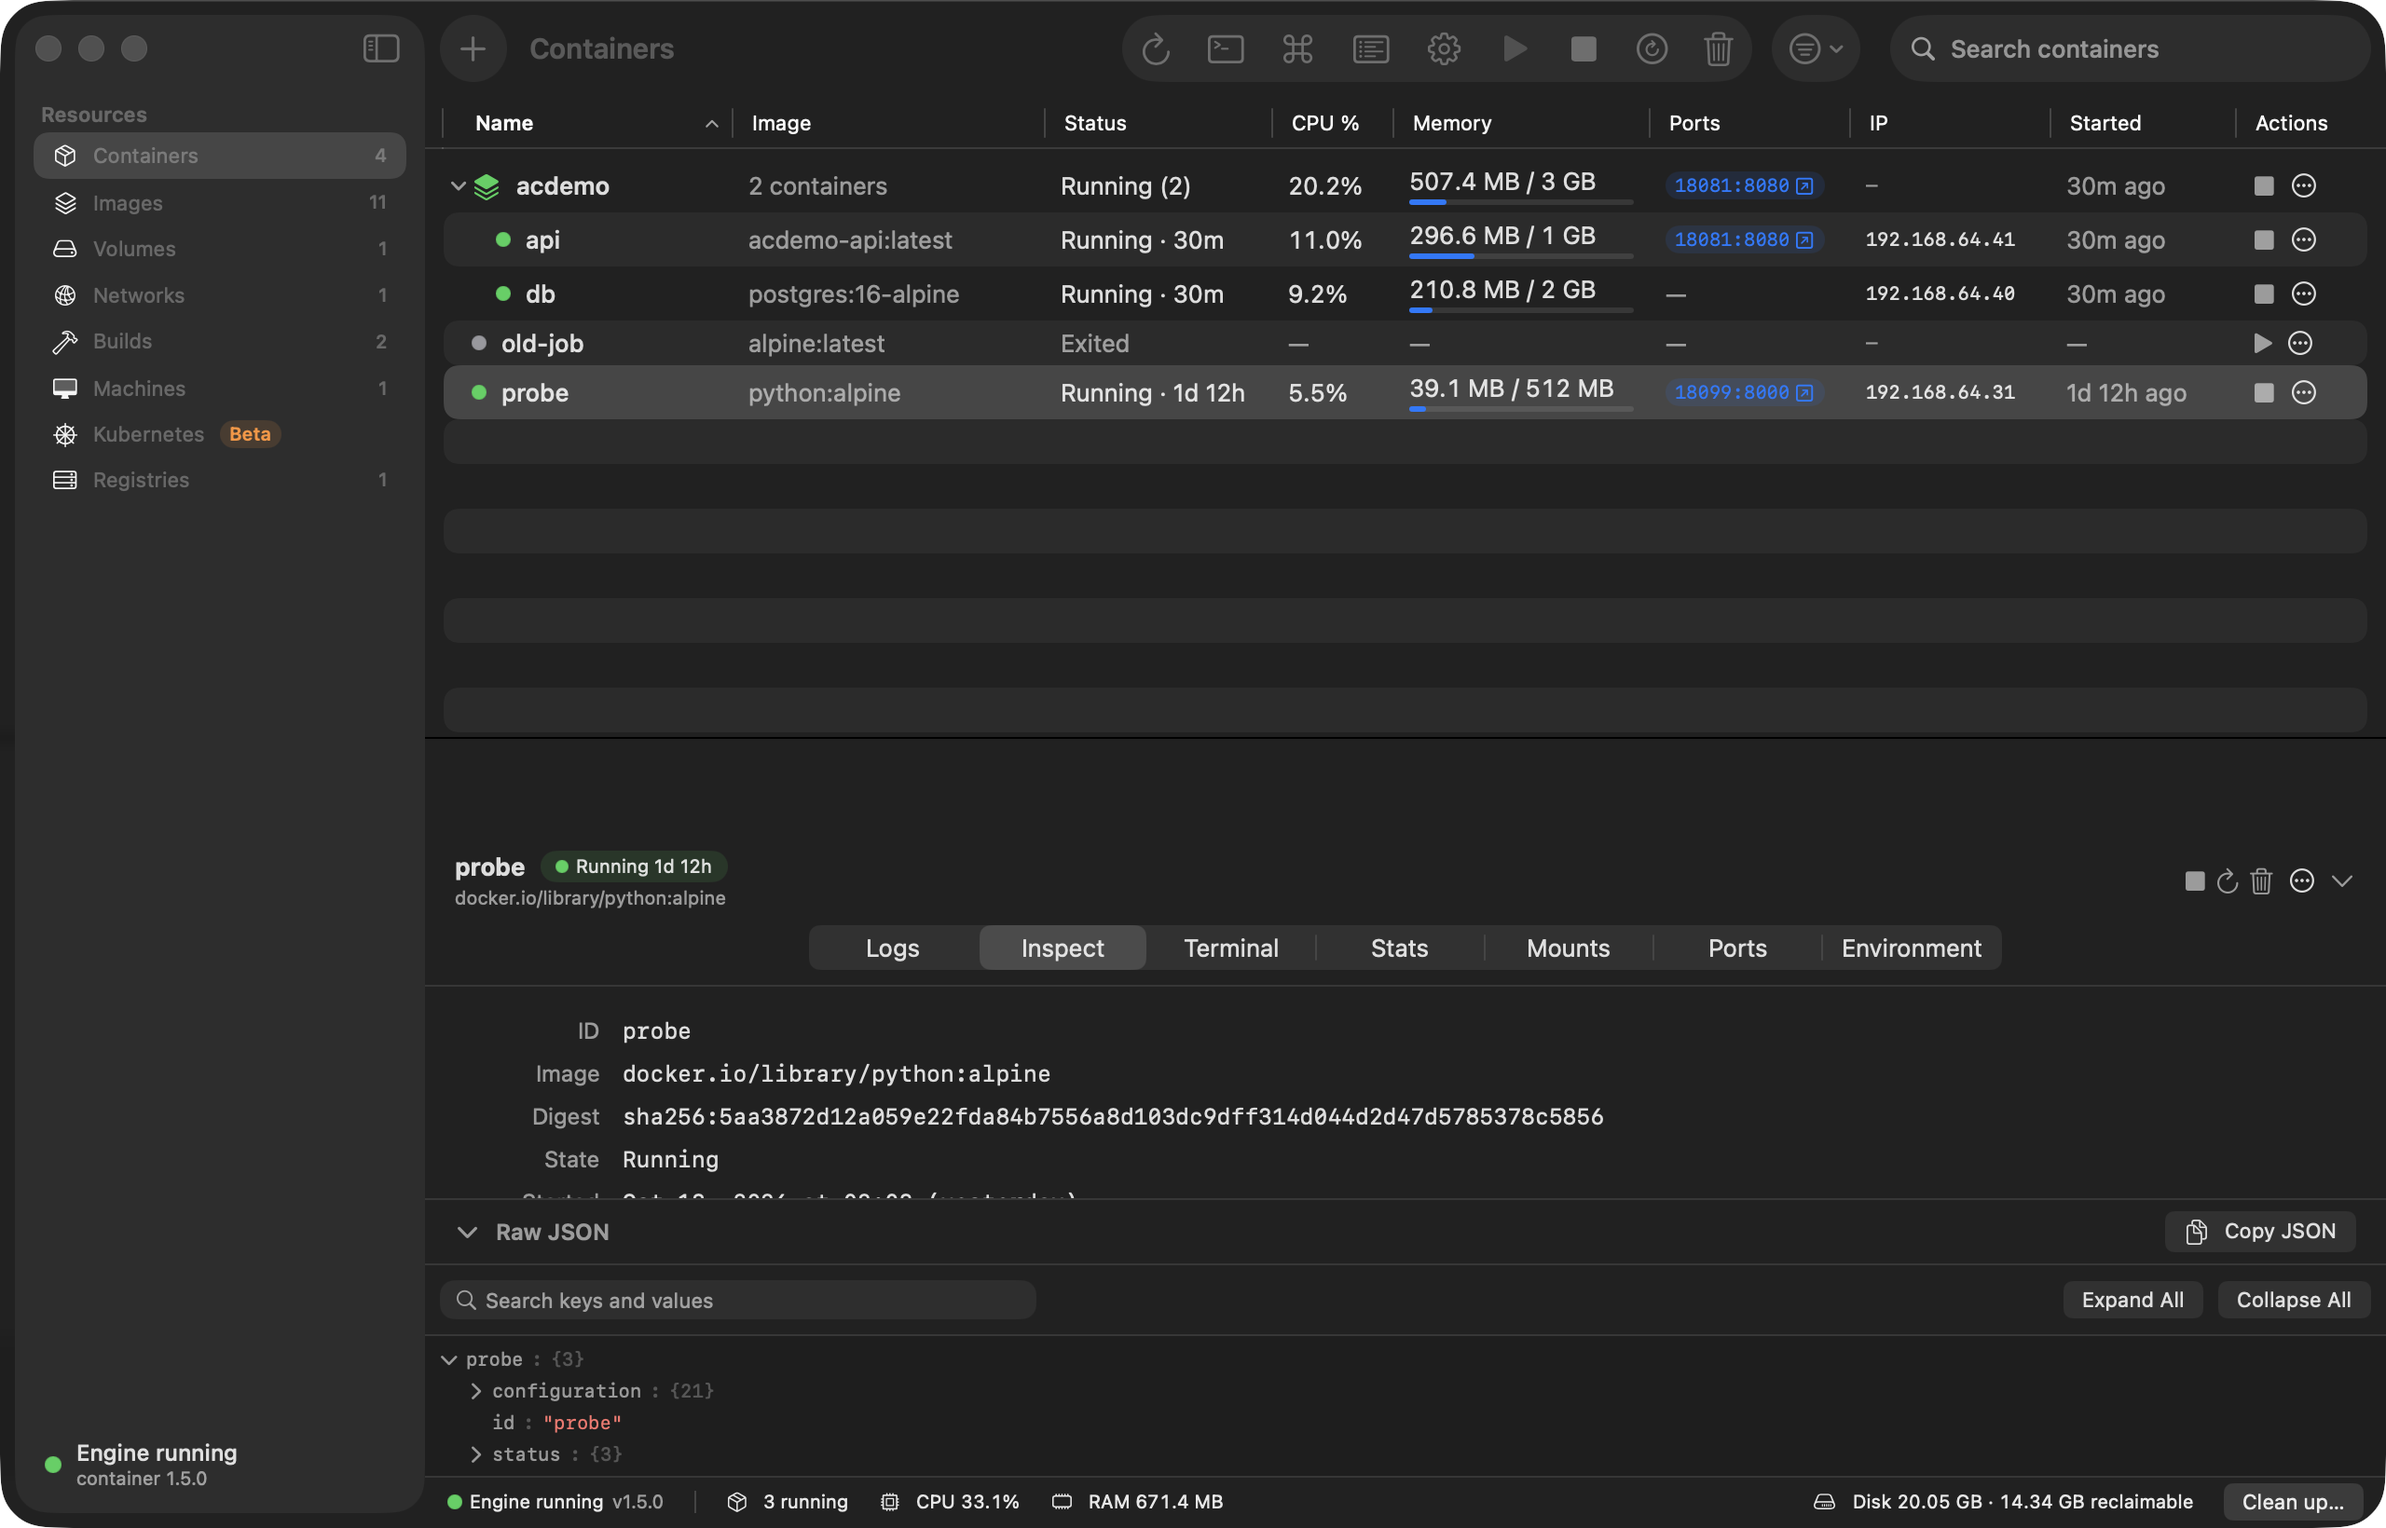
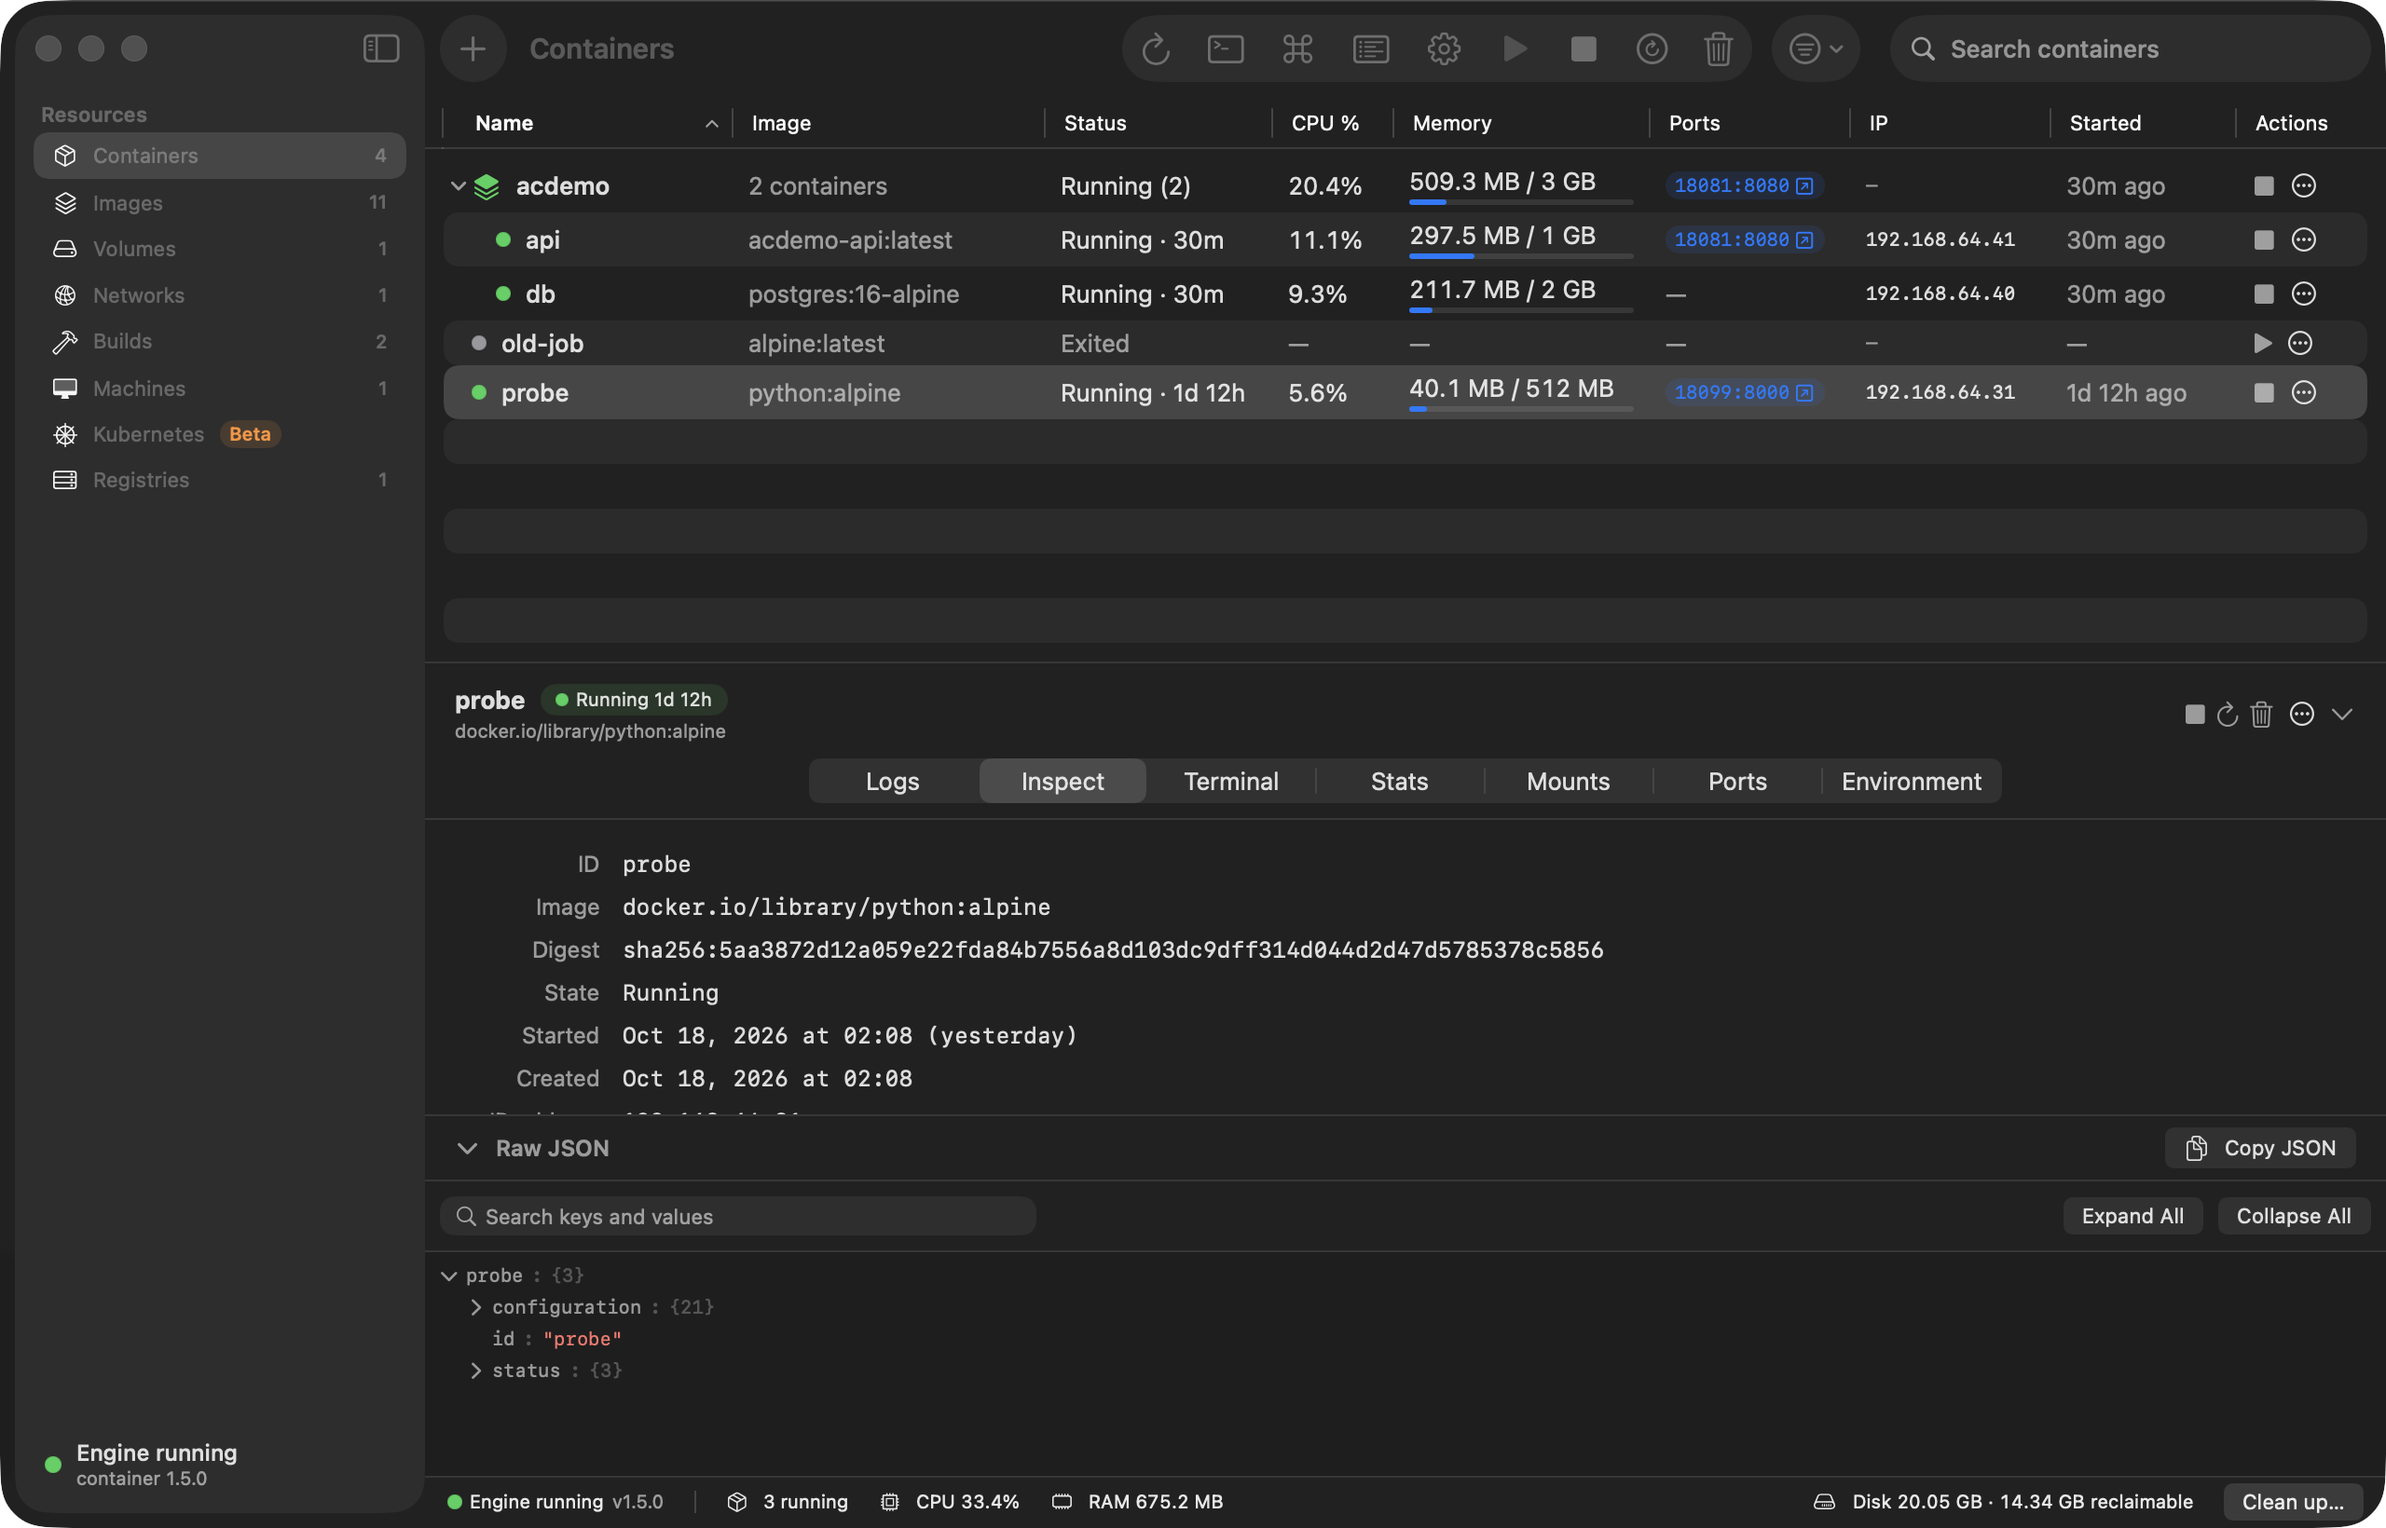
containers: wire model.runRequests (merge main), custom split instead of VSplitView, stats formatting fixes, screenshots

diff --git a/Sources/ContainerDesktop/Features/Containers/ContainersListView.swift b/Sources/ContainerDesktop/Features/Containers/ContainersListView.swift
@@ -1,4 +1,5 @@
 import SwiftUI
+import AppKit
 import ContainerKit
 import ContainerKitMock
 import AppCore
@@ -7,11 +8,12 @@ import DesignSystem
 /// Containers section: table (top) + tabbed detail pane (bottom, resizable) for a single selection.
 ///
 /// Deep links: `navigation.open(.containers, select: "<id>")` selects a container;
-/// `select: "run:<image reference>"` opens the Run sheet prefilled with that image.
+/// `select: "run:<image reference>"` or `model.runRequests.request(_:)` opens the Run sheet prefilled.
 struct ContainersListView: View {
     @Environment(AppModel.self) private var model
     @State private var ui = ContainersUIState()
     @AppStorage("containers.groupByProject") private var groupByProject = true
+    @AppStorage("containers.listHeight") private var listHeight: Double = 300
 
     private var store: ContainersStore { model.containers }
     private var actions: ContainerActions { ContainerActions(model: model, ui: ui) }
@@ -22,12 +24,19 @@ struct ContainersListView: View {
     }
 
     var body: some View {
-        VSplitView {
-            listArea
-                .frame(minHeight: 160, idealHeight: 300, maxHeight: .infinity)
-            if let c = detailContainer {
-                ContainerDetailView(container: c, ui: ui, actions: actions)
-                    .frame(minHeight: 260, idealHeight: 420, maxHeight: .infinity)
+        // A VStack + drag handle instead of `VSplitView`: VSplitView mis-applies the toolbar safe area to its
+        // first pane and leaves a dead band above the second one.
+        GeometryReader { geo in
+            VStack(spacing: 0) {
+                if let c = detailContainer {
+                    let height = min(max(160, listHeight), max(160, geo.size.height - 260))
+                    listArea.frame(height: height)
+                    SplitHandle(height: $listHeight, range: 160...max(160, geo.size.height - 260))
+                    ContainerDetailView(container: c, ui: ui, actions: actions)
+                        .frame(maxHeight: .infinity)
+                } else {
+                    listArea.frame(maxHeight: .infinity)
+                }
             }
         }
         .toolbar { ContainersToolbar(model: model, ui: ui, actions: actions, groupByProject: $groupByProject) }
@@ -40,6 +49,9 @@ struct ContainersListView: View {
             ui.showDetail = true
             return raw
         }
+        // "Run…" from Images (and other sections) hands off through `model.runRequests`.
+        .onAppear(perform: consumeRunRequest)
+        .onChange(of: model.runRequests.pending) { consumeRunRequest() }
         .sheet(item: $ui.runRequest) { request in
             RunContainerSheet(prefill: request.spec) { newID in
                 ui.open(newID, tab: .logs)
@@ -86,6 +98,11 @@ struct ContainersListView: View {
         }
     }
 
+    private func consumeRunRequest() {
+        guard model.runRequests.pending != nil, let spec = model.runRequests.consume() else { return }
+        ui.runRequest = RunSheetRequest(spec: spec)
+    }
+
     private var deleteTitle: String {
         ui.pendingDelete.count == 1 ? "Delete container “\(ui.pendingDelete[0])”?" : "Delete \(ui.pendingDelete.count) containers?"
     }
@@ -94,6 +111,32 @@ struct ContainersListView: View {
         let names = ui.pendingDelete.prefix(12).joined(separator: ", ")
         let more = ui.pendingDelete.count > 12 ? " and \(ui.pendingDelete.count - 12) more" : ""
         return "Deletes \(names)\(more). Running containers are stopped first. Named volumes are kept."
+    }
+}
+
+/// Horizontal divider that resizes the pane above it by dragging.
+private struct SplitHandle: View {
+    @Binding var height: Double
+    let range: ClosedRange<Double>
+    @State private var start: Double?
+
+    var body: some View {
+        Divider()
+            .frame(maxWidth: .infinity)
+            .padding(.vertical, 3)
+            .contentShape(Rectangle())
+            .onHover { inside in if inside { NSCursor.resizeUpDown.push() } else { NSCursor.pop() } }
+            .gesture(DragGesture(minimumDistance: 1)
+                .onChanged { value in
+                    let base = start ?? height
+                    start = base
+                    height = min(max(base + value.translation.height, range.lowerBound), range.upperBound)
+                }
+                .onEnded { _ in start = nil })
+            .accessibilityLabel("Resize list and details")
+            .accessibilityAdjustableAction { direction in
+                height = min(max(height + (direction == .increment ? 40 : -40), range.lowerBound), range.upperBound)
+            }
     }
 }
 

diff --git a/Sources/ContainerDesktop/Features/Containers/ContainerStatsTab.swift b/Sources/ContainerDesktop/Features/Containers/ContainerStatsTab.swift
@@ -32,7 +32,7 @@ struct ContainerStatsTab: View {
                     tiles
                     LazyVGrid(columns: [GridItem(.adaptive(minimum: 320), spacing: Spacing.l)], spacing: Spacing.l) {
                         chartCard("CPU", subtitle: "% of one core") { cpuChart }
-                        chartCard("Memory", subtitle: "used vs limit") { memoryChart }
+                        chartCard("Memory", subtitle: "used of \(ByteCount.format(points.last?.memoryLimitBytes ?? container.configuration.resources.memoryInBytes)) limit") { memoryChart }
                         chartCard("Network", subtitle: "bytes/s") {
                             rateChart([("Received", \.networkRxPerSecond), ("Sent", \.networkTxPerSecond)])
                         }
@@ -79,11 +79,19 @@ struct ContainerStatsTab: View {
                        subtitle: p.map { "↑ \(Self.rate($0.networkTxPerSecond))" })
             MetricTile(title: "Block I/O", value: p.map { "R \(Self.rate($0.blockReadPerSecond))" } ?? emDash,
                        subtitle: p.map { "W \(Self.rate($0.blockWritePerSecond))" })
-            MetricTile(title: "PIDs", value: p.map { String($0.processes) } ?? emDash)
+            MetricTile(title: "PIDs", value: p.map { String($0.processes) } ?? emDash, subtitle: "processes")
         }
     }
 
-    static func rate(_ bytesPerSecond: Double) -> String { ByteCount.format(Int64(bytesPerSecond)) + "/s" }
+    static func rate(_ bytesPerSecond: Double) -> String { bytes(bytesPerSecond) + "/s" }
+
+    /// Like `ByteCount.format` but always numeric ("0 KB", never "Zero KB").
+    static func bytes(_ value: Double) -> String {
+        let f = ByteCountFormatter()
+        f.countStyle = .binary
+        f.allowsNonnumericFormatting = false
+        return f.string(fromByteCount: Int64(max(0, value)))
+    }
 
     // MARK: Charts
 
@@ -125,7 +133,9 @@ struct ContainerStatsTab: View {
                     .foregroundStyle(by: .value("Series", "Used"))
                     .interpolationMethod(.monotone)
             }
-            if let limit = points.last?.memoryLimitBytes, limit > 0 {
+            // Only draw the limit when usage is close enough for it to fit without flattening the area.
+            if let limit = points.last?.memoryLimitBytes, limit > 0, let peak = points.map(\.memoryBytes).max(),
+               Double(peak) > Double(limit) * 0.4 {
                 RuleMark(y: .value("Limit", limit))
                     .foregroundStyle(Color.statusWarning)
                     .lineStyle(StrokeStyle(lineWidth: 1, dash: [4, 3]))
@@ -136,7 +146,7 @@ struct ContainerStatsTab: View {
         }
         .chartForegroundStyleScale(["Used": Color.accentColor.opacity(0.6)])
         .chartLegend(.hidden)
-        .chartYAxis { AxisMarks { v in AxisGridLine(); AxisValueLabel { Text(ByteCount.format(Int64(v.as(Double.self) ?? 0))) } } }
+        .chartYAxis { AxisMarks { v in AxisGridLine(); AxisValueLabel { Text(Self.bytes(v.as(Double.self) ?? 0)) } } }
         .chartXAxis { timeAxis }
         .accessibilityLabel("Memory usage chart")
     }
